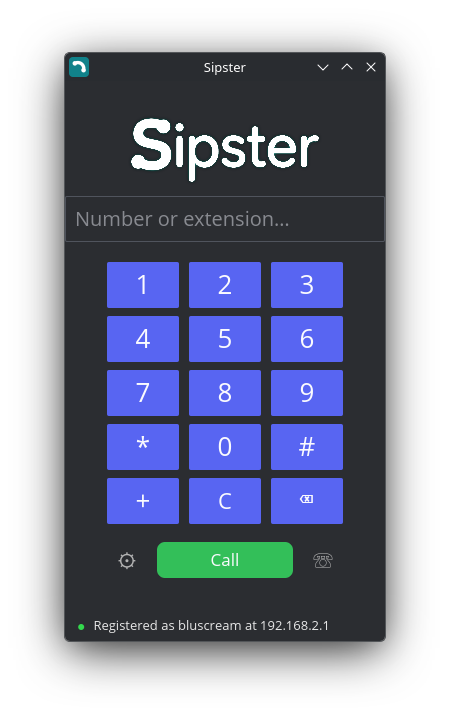
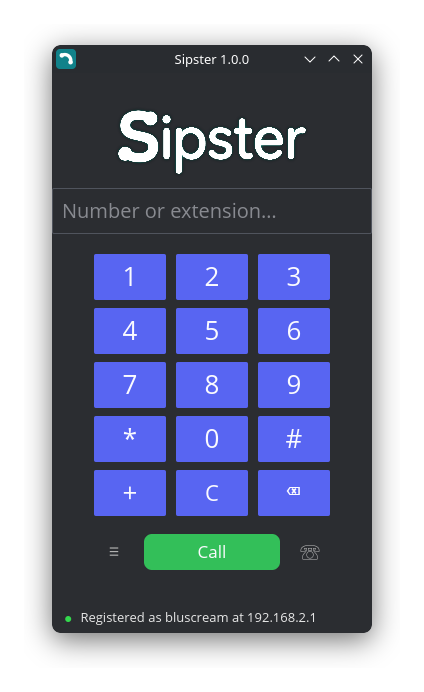
docs: retake the screenshots for 1.0.0
All four are current: the title bar now carries the version, the left
dialer button is the contacts toggle rather than a gear, and the settings
window has its category index and in-field reveal.

The contact list is a synthetic address book, not the real phonebook —
publishing it would put other people's phone numbers in a public README.
Replaces in_call.png (a call in progress looks the same as the dialer
apart from the button) with two more useful shots: the incoming-call
prompt, and the contact list docked beside the dialer, which is the
feature the old screenshots had no way to show.

Changed region(s): [[0.1226, 0.0607, 0.8892, 0.9408], [0.5212, 0.2731, 0.6439, 0.3338]]

diff --git a/README.md b/README.md
@@ -17,9 +17,13 @@ history your desktop already has.
 <summary>📸 <b>Screenshots</b></summary>
 <br>
 
-| Dialer (Registered) | In-Call | Settings |
+| Dialer (registered) | Incoming call | Settings |
 | :---: | :---: | :---: |
-| <img src="assets/screenshots/main.png" alt="Sipster dialpad, registered" width="260"> | <img src="assets/screenshots/in_call.png" alt="Sipster during a call" width="260"> | <img src="assets/screenshots/settings.png" alt="Sipster settings window" width="300"> |
+| <img src="assets/screenshots/main.png" alt="Sipster dialpad, registered" width="240"> | <img src="assets/screenshots/incoming.png" alt="Sipster showing an incoming call with Answer and Decline" width="240"> | <img src="assets/screenshots/settings.png" alt="Sipster settings window, Account page" width="330"> |
+
+Contacts docked beside the dialer — the middle step of the ☰ button's cycle:
+
+<img src="assets/screenshots/docked.png" alt="Sipster with the contact list docked beside the dialer" width="560">
 
 </details>
 
